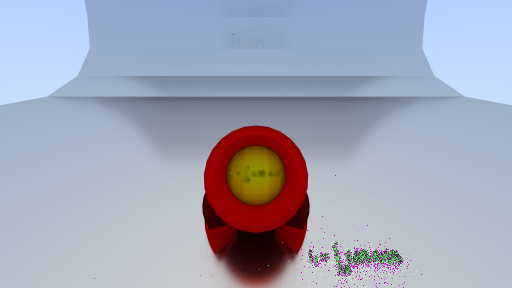
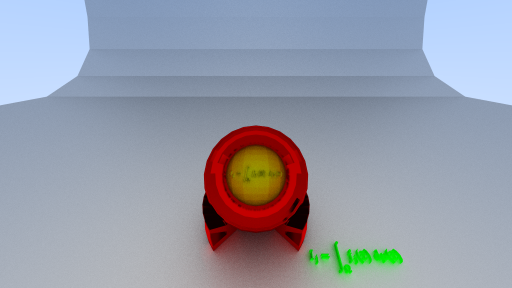
add: add emissive objects

Changed region(s): [[0.0312, 0.1562, 1.0, 1.0], [0.4688, 0.4375, 0.5312, 0.4688]]

diff --git a/src/main.cpp b/src/main.cpp
@@ -31,7 +31,7 @@ constexpr lumina::u32 IMAGE_HEIGHT = (IMAGE_WIDTH / ASPECT_RATIO < 1) ? 1 : IMAG
 constexpr lumina::u32 SAMPLES      = 1;
 constexpr lumina::u32 MAX_RECURSE  = 4;
 #else
-constexpr lumina::u32 SAMPLES      = 128;
+constexpr lumina::u32 SAMPLES      = 1024;
 constexpr lumina::u32 MAX_RECURSE  = 32;
 #endif
 
@@ -51,6 +51,9 @@ lumina::vec3f32 trace_ray(const lumina::ray& ray, const lumina::bvh& bvh, const 
             lumina::triangle triangle(vertices[indices[index_idx].x], vertices[indices[index_idx].y], vertices[indices[index_idx].z]);
 
             current_att *= mat.albedo + mat.emission;
+            if(lumina::dot(mat.emission, mat.emission) > 0.0f) {
+                return current_att;
+            }
 
             auto n = triangle.normal(ray, t);
             auto next_origin = current_ray[t] + n * 0.0001f;
@@ -59,9 +62,11 @@ lumina::vec3f32 trace_ray(const lumina::ray& ray, const lumina::bvh& bvh, const 
             current_ray = lumina::ray(next_origin, next_direction);
         }
         else {   
-            auto t = 0.5f * (ray.direction.y + 1.0f);
-            auto c = (1.0f - t) * lumina::vec3f32(1.0f) + t * lumina::vec3f32(0.5f, 0.7f, 1.0f);
-            return current_att * c;
+            // auto t = 0.5f * (ray.direction.y + 1.0f);
+            // auto c = (1.0f - t) * lumina::vec3f32(1.0f) + t * lumina::vec3f32(0.5f, 0.7f, 1.0f);
+            auto c = lumina::vec3f32(0.0f);
+            // return current_att * c;
+            return c;
         }
     }
 
@@ -113,11 +118,11 @@ int main(int argc, const char* argv[]) {
     std::vector<lumina::material> materials(mesh_groups.size());
 
     std::unordered_map<std::string, lumina::material> mat_config{};
-    mat_config["BackGroundMat"] = lumina::material{.albedo = {0.8f}, .emission = {0.0f}, .roughness = 0.05f, .refractive_index = 0.0f};
+    mat_config["BackGroundMat"] = lumina::material{.albedo = {0.8f}, .emission = {0.0f}, .roughness = 0.5f, .refractive_index = 0.0f};
     mat_config["InnerMat"] = lumina::material{.albedo = {0.8f, 0.8f, 0.0f}, .emission = {0.0f}, .roughness = 1.0f, .refractive_index = 0.0f};
-    mat_config["LTELogo"] = lumina::material{.albedo = {0.0f, 0.8f, 0.0f}, .emission = {0.8f}, .roughness = 1.0f, .refractive_index = 0.0f};
-    mat_config["Material"] = lumina::material{.albedo = {1.0f}, .emission = {0.0f}, .roughness = 1.0f, .refractive_index = 0.0f};
-    mat_config["OuterMat"] = lumina::material{.albedo = {0.8f, 0.0f, 0.0f}, .emission = {0.0f}, .roughness = 0.5f, .refractive_index = 0.0f};
+    mat_config["LTELogo"] = lumina::material{.albedo = {0.0f, 0.8f, 0.0f}, .emission = {0.0f, 0.8f, 0.0f}, .roughness = 1.0f, .refractive_index = 0.0f};
+    mat_config["Material"] = lumina::material{.albedo = {1.0f}, .emission = {1.0f}, .roughness = 1.0f, .refractive_index = 0.0f};
+    mat_config["OuterMat"] = lumina::material{.albedo = {0.8f, 0.0f, 0.0f}, .emission = {0.0f}, .roughness = 0.0f, .refractive_index = 0.0f};
 
     {
         lumina::u32 m = 0;
@@ -157,7 +162,7 @@ int main(int argc, const char* argv[]) {
                         for(lumina::u32 s = 0; s < SAMPLES; ++s) {
                             auto ray = cam.generate_ray(x, y, rng);
 
-                            pixel += trace_ray(ray, bvh, vertices, indices, mat_indices, materials, rng);
+                            pixel += lumina::min(trace_ray(ray, bvh, vertices, indices, mat_indices, materials, rng), lumina::vec3f32(1.0f));
                         }
                         pixel /= lumina::f32(SAMPLES);
                         pixels[y * IMAGE_WIDTH + x] = pixel;

diff --git a/src/lumina/internal/material.hpp b/src/lumina/internal/material.hpp
@@ -157,7 +157,7 @@ vec3f32 sample_ggx(const vec3f32& n, f32 alpha, RandGen& rng) {
     auto r2 = rand_val(rng);
 
     auto phi = 2.0f * F32_PI * r1;
-    auto cos_theta = std::sqrt((1.0f - r2) / (1.0f + (alpha2 - 1.0f) * r2));
+    auto cos_theta = std::sqrt((1.0f - r2) / (1.0001f + (alpha2 - 1.0f) * r2));
     auto sin_theta = std::sqrt(1.0f - cos_theta * cos_theta);
     auto x = sin_theta * std::cos(phi);
     auto y = sin_theta * std::sin(phi);

diff --git a/README.md b/README.md
@@ -16,15 +16,34 @@ cmake --build . --config release (Releaseビルドの場合)
 ```
 を実行します。
 また、現時点ではテストシーンに[Mori knob](https://casual-effects.com/g3d/data10/index.html#mesh23)を使用しているため、ダウンロードして、`./asset/`フォルダ直下に配置します。
+Mori knobは`Material`としてグループ化されている光源用に天井に配置されている四角形を拡大して使用しています。
+```diff
+# line 16203 to 16206
+- v 3.750000 12.017239 -3.748953
+- v -3.750000 12.194347 3.748953
+- v -3.750000 12.017239 -3.748953
+- v 3.750000 12.194347 3.748953
++ v 13.750000 12.017239 -13.748953
++ v -13.750000 12.194347 13.748953
++ v -13.750000 12.017239 -13.748953
++ v 13.750000 12.194347 13.748953
+```
 
 # Result
 DebugビルドとReleaseビルドでは実行時間に大きな差があるため、ビルドに応じてレイトレーシングの設定を変更しています。
 Releaseビルドしたアプリケーションを実行するとレイトレーシングを実行し、以下のような画像を生成します。
+
+
 ![](./test.png)
 128ppx, 最大再帰深度32
 
+
 ![](./test_1024ppx_17min.png)
 1024ppx, 最大再帰深度32, 生成時間17分, マテリアル情報を設定
+
+
+![](./test_1024ppx_only_light.png)
+1024ppx, 最大再帰深度32, 光源メッシュのみでライティング
 
 # Features
 - マルチスレッドを使用したレイトレーシング
